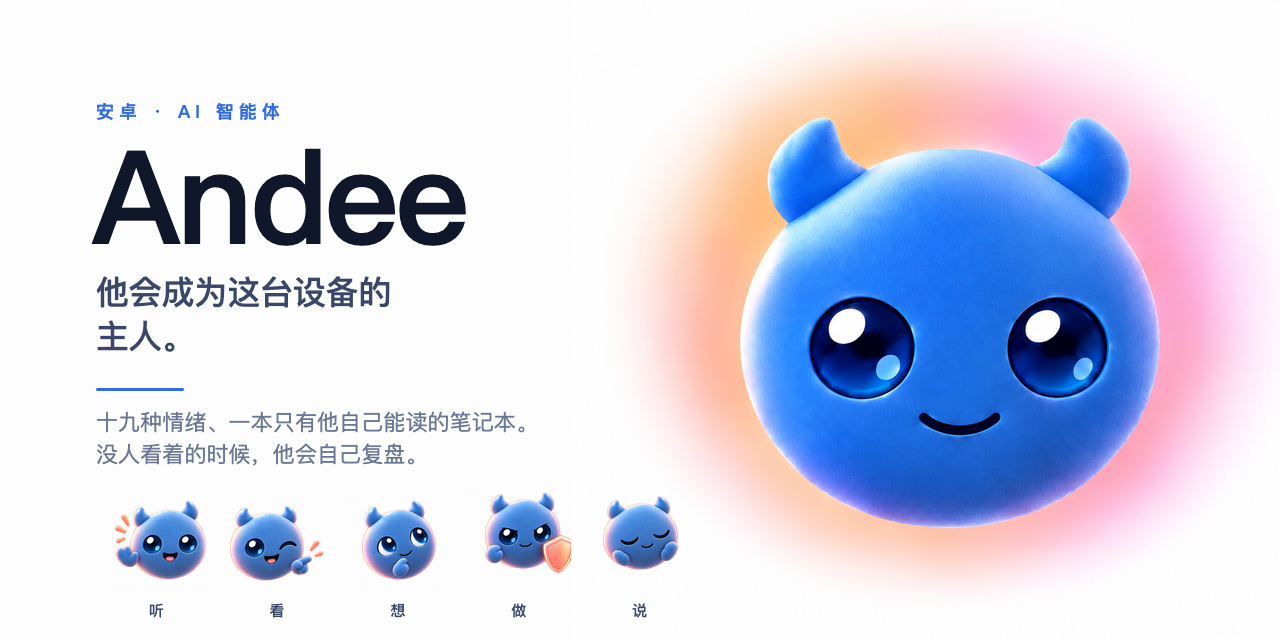
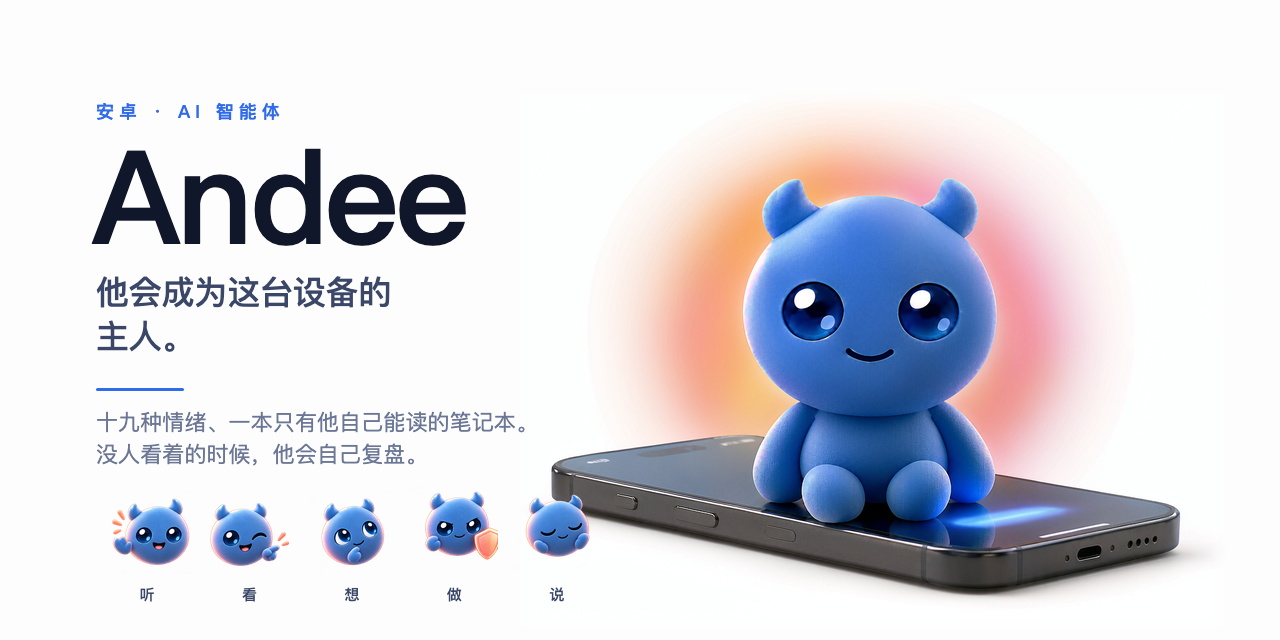
feat(cover): sit the character on a phone instead of a floating head
The README's first image was a disembodied head on white. It is now a
graphite phone lying flat with the character sitting on its screen.

- images/brand/mira-device.png: the new hero art (1536x1024, white
  background with the same warm halo as mira-head.png).
- tools/make_social_preview.py: the right-hand art is this asset, 720px
  wide, anchored bottom-right. The crop keeps 60px of white padding and
  fades the outer 40px with an analytic edge ramp; filling the mask and
  blurring it does not feather, and the first attempt left a hard seam
  across the halo.
- The mood strip narrows from 604/104 to 512/88 so the phone's left
  corner clears the last cell.
- The text-to-art gap check measures the character's left edge (B-R>80)
  instead of a hard-coded 277*s.

Regenerated cover, cover.zh-CN, social-preview and social-preview.zh-CN.
avatar-org.png is byte-identical: the round avatar still uses
mira-head.png, which is head-only.

The character in this render has a body; the app still draws a floating
sphere. BallLook and the mood illustrations are untouched.

diff --git a/tools/make_social_preview.py b/tools/make_social_preview.py
@@ -1,16 +1,22 @@
 #!/usr/bin/env python3
 """README 封面（1200×630）、GitHub 社交预览（1280×640）与方形组织头像（512×512）。
 
-素材只有一份：`images/brand/andee-head.png`（白底 + 橙粉光晕 + 蓝色头部）。
-头部抠图和光晕补底在 `andee_head.py`，和启动图标共用同一套，所以封面上的角色
-和桌面图标是**同一张画**，不是"看起来像"。
+两份素材，各管一件事：
+
+  * 封面/社交预览的右侧主图 = `images/brand/andee-device.png`：一台躺着的手机，
+    角色坐在屏幕上 —— 讲的是"住进设备"，不是"一颗悬着的头"。
+  * 方形头像 = `images/brand/andee-head.png`：圆形裁切下只放得下头。
+    头部抠图和光晕补底在 `andee_head.py`，和启动图标共用同一套。
 
 ## 构图
 
-  * 底是纯白（源图四角就是 #FDFDFD），角色连同自带的光晕一起贴上去，
-    光晕与白底在边缘处自然融掉 —— 所以不抠光晕，贴整张。
-  * 文字深色，左对齐；角色在右。文字右缘到角色**头部**左缘的间距会量出来，
-    小于 40px 就告警（标语长了 20px 悄悄压到头上，只有肉眼看得出）。
+  * 底是纯白（#FDFDFD）。主图自带白边，**不抠图**：按内容框裁掉多余白边，
+    再用一圈解析斜坡（`edge_ramp`）把最外 40px 淡成透明。光晕本来就在白边上，
+    淡出看不出来；硬切会在光晕里留一条横向接缝（第一版就是这么翻车的，
+    原因是"填满整块再模糊"等于没羽化）。
+  * 文字深色，左对齐；主图在右下。文字右缘到**角色**左缘（蓝通道差 > 80 的
+    最左列）的间距会量出来，小于 40px 就告警。
+  * 底部那行五张表情收窄到 512px（原来是 604），否则手机左端会压到最后一格。
   * 头像是圆形裁切（GitHub 组织头像就是圆的）：脚本量角色最远点到圆心的
     距离，越界就告警。
 
@@ -42,22 +48,26 @@ W, H = 1280, 640
 COVER = (1200, 630)
 AVATAR = 512
 
-# 角色整图（含光晕）在 1280×640 画布上的落位：整图边长与中心。
-ART_SIDE = 760
-ART_CX, ART_CY = 952.0, 322.0
-# 头部本身的直径（量出来的 693px）按同比例缩放后的值，用于文字间距自检。
-HEAD_W_SRC = 693.0
+# 右侧主图（手机 + 坐在屏幕上的角色）的落位。它自带白边，所以按**内容框**裁，
+# DEV_PAD 是留给斜坡的白边宽度：斜坡全落在这圈白里，角色和手机一个像素都不透明。
+DEVICE_SRC = REPO / "images" / "brand" / "andee-device.png"
+DEV_W = 720                       # 落到画布上的宽度（裁切后）
+DEV_RIGHT, DEV_BOTTOM = 1232, 636  # 右下角锚点
+DEV_TRIM = 30                     # 判"内容"的阈值：与白底的最大通道差
+DEV_PAD = 60                      # 内容框外保留的白边
+DEV_RAMP = 40                     # 淡出斜坡的宽度（画到画布上的像素）
+DEV_BLUE = 80                     # 角色判据：B − R > 80（手机是中性色，不会被算进来）
 
 # 文字基线（比原来整体上移 60px，给最下面那条表情行让位）
 Y_EYEBROW, Y_TITLE, Y_TAG = 118, 244, 304
 Y_RULE, Y_FOOT = 388, 430
 
 # 最下面那条「一张插画 + 一个字」的行：五张横向排开，标签居中在每张下面。
-# 宽度锁在左栏里（96 → 700），所以它不会碰到右边那颗头。
+# 宽度锁在左栏里（96 → 608），这样右侧主图（手机左端在 ~518）不会压到最后一格。
 # 插画是 App 的手势情绪（WINK / WAVE / PROTECT / REST 那批带道具的），
 # 网页渲染器 ball.js 画不出它们，所以这里用的是真图，不是渲出来的。
-FLOW_W = 604
-FLOW_IMG = 104
+FLOW_W = 512
+FLOW_IMG = 88
 FLOW_TOP = 486
 FLOW_LABEL_DY = 26
 FLOW_FONT = 15
@@ -88,10 +98,40 @@ ZH = {
 }
 
 
-def art_layer(side: int):
-    """整张角色图（带光晕）缩到 side×side。"""
-    im = Image.open(head.SRC).convert("RGB")
-    return im.resize((side, side), Image.LANCZOS)
+def content_box(rgb: np.ndarray):
+    """与白底差得够多的最外一圈像素（光晕也算内容，所以框左边通常是光晕而非手机）。"""
+    d = (255 - rgb).max(axis=2)
+    ys, xs = np.nonzero(d > DEV_TRIM)
+    return int(xs.min()), int(ys.min()), int(xs.max()), int(ys.max())
+
+
+def edge_ramp(w: int, h: int, ramp: int) -> Image.Image:
+    """四边向内 ramp 像素的平滑斜坡：边上 alpha=0，ramp 以内 alpha=255。
+
+    必须写成"从边算距离"，不能写成"填满再高斯模糊" —— 填满之后模糊出来还是
+    一张全白的掩膜，等于没羽化，光晕会被画布边缘硬切出一条接缝。
+    """
+    x = np.arange(w)[None, :]
+    y = np.arange(h)[:, None]
+    d = np.minimum(np.minimum(x, w - 1 - x), np.minimum(y, h - 1 - y)).astype(np.float64)
+    t = np.clip(d / max(1, ramp), 0, 1)
+    return Image.fromarray(((t * t * (3 - 2 * t)) * 255).astype(np.uint8), "L")
+
+
+def device_layer():
+    """右侧主图：裁掉多余白边 → 缩到 DEV_W → 四边淡出。返回 (图, 角色左缘x)。"""
+    src = Image.open(DEVICE_SRC).convert("RGB")
+    rgb = np.asarray(src).astype(np.int16)
+    x0, y0, x1, y1 = content_box(rgb)
+    char_x0 = int(np.nonzero(((rgb[:, :, 2] - rgb[:, :, 0]) > DEV_BLUE).any(axis=0))[0].min())
+    box = (max(0, x0 - DEV_PAD), max(0, y0 - DEV_PAD),
+           min(src.size[0], x1 + DEV_PAD), min(src.size[1], y1 + DEV_PAD))
+    art = src.crop(box)
+    s = DEV_W / art.size[0]
+    art = art.resize((int(round(art.size[0] * s)), int(round(art.size[1] * s))), Image.LANCZOS)
+    out = art.convert("RGBA")
+    out.putalpha(edge_ramp(*art.size, max(2, int(round(DEV_RAMP * s)))))
+    return out, (char_x0 - box[0]) * s
 
 
 def build_svg(copy: dict) -> str:
@@ -223,20 +263,19 @@ def flow_layer(copy: dict):
 
 def compose(copy, name, tmp, size=None):
     base = Image.new("RGB", (W, H), (253, 253, 253)).convert("RGBA")
-    art = art_layer(ART_SIDE).convert("RGBA")
-    left, top = int(ART_CX - ART_SIDE / 2), int(ART_CY - ART_SIDE / 2)
-    base.alpha_composite(art, (left, top)) if left >= 0 and top >= 0 else base.paste(art, (left, top))
+    layer, char_left = device_layer()
+    left, top = DEV_RIGHT - layer.size[0], DEV_BOTTOM - layer.size[1]
+    base.alpha_composite(layer, (left, top))
     for im, xy in flow_layer(copy):
         base.alpha_composite(im, xy)
     text_layer = render_text_layer(build_svg(copy), tmp)
     base.alpha_composite(Image.open(text_layer).convert("RGBA"))
     final = base.convert("RGB")
 
-    s = ART_SIDE / 1254.0
-    head_left = left + 277 * s
+    char_x = left + char_left          # 角色最左列在画布上的 x
     over = text_right_edge(text_layer)
-    gap = head_left - over
-    print(f"  文字右缘 {over} / 头部左缘 {head_left:.0f} / 间距 {gap:.0f}px"
+    gap = char_x - over
+    print(f"  文字右缘 {over} / 角色左缘 {char_x:.0f} / 间距 {gap:.0f}px"
           + ("   ⚠ 太挤" if gap < 40 else ""))
 
     if size and size != (W, H):
